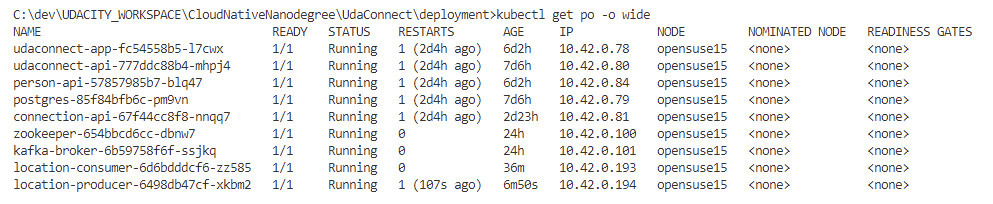
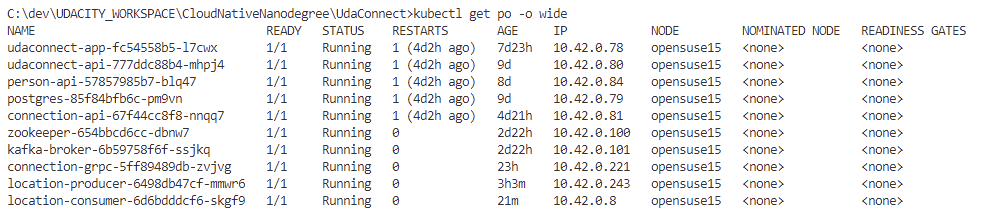
Update docs

diff --git a/README.md b/README.md
@@ -97,23 +97,6 @@ These pages should also load on your web browser:
 * `http://localhost:30001/api/` - Base path for API
 * `http://localhost:30000/` - Frontend ReactJS Application
 
-#### Deployment Note
-You may notice the odd port numbers being served to `localhost`. [By default, Kubernetes services are only exposed to one another in an internal network](https://kubernetes.io/docs/concepts/services-networking/service/). This means that `udaconnect-app` and `udaconnect-api` can talk to one another. For us to connect to the cluster as an "outsider", we need to a way to expose these services to `localhost`.
-
-Connections to the Kubernetes services have been set up through a [NodePort](https://kubernetes.io/docs/concepts/services-networking/service/#nodeport). (While we would use a technology like an [Ingress Controller](https://kubernetes.io/docs/concepts/services-networking/ingress-controllers/) to expose our Kubernetes services in deployment, a NodePort will suffice for development.)
-
-## Development
-### New Services
-New services can be created inside of the `modules/` subfolder. You can choose to write something new with Flask, copy and rework the `modules/api` service into something new, or just create a very simple Python application.
-
-As a reminder, each module should have:
-1. `Dockerfile`
-2. Its own corresponding DockerHub repository
-3. `requirements.txt` for `pip` packages
-4. `__init__.py`
-
-### Docker Images
-`udaconnect-app` and `udaconnect-api` use docker images from `udacity/nd064-udaconnect-app` and `udacity/nd064-udaconnect-api`. To make changes to the application, build your own Docker image and push it to your own DockerHub repository. Replace the existing container registry path with your own.
 
 ## Configs and Secrets
 In `deployment/db-secret.yaml`, the secret variable is `d293aW1zb3NlY3VyZQ==`. The value is simply encoded and not encrypted -- this is ***not*** secure! Anyone can decode it to see what it is.
@@ -141,18 +124,7 @@ To manually connect to the database, you will need software compatible with Post
 * CLI users will find [psql](http://postgresguide.com/utilities/psql.html) to be the industry standard.
 * GUI users will find [pgAdmin](https://www.pgadmin.org/) to be a popular open-source solution.
 
-## Architecture Diagrams
-Your architecture diagram should focus on the services and how they talk to one another. For our project, we want the diagram in a `.png` format. Some popular free software and tools to create architecture diagrams:
-1. [Lucidchart](https://www.lucidchart.com/pages/)
-2. [Google Docs](docs.google.com) Drawings (In a Google Doc, _Insert_ - _Drawing_ - _+ New_)
-3. [Diagrams.net](https://app.diagrams.net/)
-
-## Tips
-* We can access a running Docker container using `kubectl exec -it <pod_id> sh`. From there, we can `curl` an endpoint to debug network issues.
-* The starter project uses Python Flask. Flask doesn't work well with `asyncio` out-of-the-box. Consider using `multiprocessing` to create threads for asynchronous behavior in a standard Flask application.
-
-
-## UdaConnect Refactored in Microservices
+# UdaConnect Refactored in Microservices
 
 These steps will help you run UdaConnect, a microservice-based version of the UdaConnect application, which allows users to connect with each other and share their locations.
 
@@ -207,21 +179,50 @@ Check the status of the services by running the following command:
 
 `kubectl get svc` 
 
-### Step 8: Access the UdaConnect application
+### Step 8: Test the REST implementation of the person endpoint
 
-Access the UdaConnect application from your host machine by visiting the following URLs:
+The person endpoint has been exposed through a NodePort and can be accessed on your local machine at `http://localhost:30010/api/v2/persons`. The frontend has been configured to use the new person endpoint as well, and you can access the UdaConnect app at `http://localhost:30000/`.
 
--   Person API: [http://localhost:30010/api/v2/persons](http://localhost:30010/api/v2/persons)
--   Location API: [http://localhost:30001/api/locations/](http://localhost:30001/api/locations/)
--   UdaConnect Web UI: [http://localhost:30010/](http://localhost:30010/)
-- UdaConnect APP: [http://localhost:30000/](http://localhost:30000/)
 
-### Step 9: View the logs
+### Step 9: Test the Connection-gRPC Implementation
 
-To view the logs for the location producer, location receiver, and Postgres, run the following commands:
+   The Connection gRPC endpoint is exposed through a NodePort service. To test the connection,  a client has   been provided that can be run from the local machine.
+   
+1.  Determine the ID of the connection-grpc pod by running the following command:
+    
+    `kubectl get pods` 
+    
+2.  Check the logs of the connection-grpc pod to ensure that the server is up and running by running the following command:
+    
+    `kubectl logs -f <connection-grpc-id>` 
+    
+3.  Once you have confirmed that the connection-grpc server is up and running, open a new terminal window and navigate to the root directory of the connection-grpc module.
+    
+4.  Run the gRPC client provided in the connection-grpc modulr by running the following command:
+    
+    `python client.py` 
+    
+5.  The client will connect to the gRPC server and display the data retrieved from the database, including the person and location data.
 
--   Location Producer logs: `kubectl logs location-producer-<pod-id>`
--   Location Receiver logs: `kubectl logs location-consumer-<pod-id>`
--   Postgres logs: `kubectl logs postgres-<pod-id>`
 
-That's it! You should now be able to run and test the UdaConnect application.
+### Step 10: Test the Kafka implementation of the location endpoint
+
+The `location-producer` produces location data every 20 seconds (simulating how a mobile app might send location data). The `location-producer` sends location data to the Kafka broker, and the `location-consumer` gets the data from the broker and inserts it into the database. To test the implementation, ensure that all pods are up and running (`kubectl get pods`), and then follow the steps below:
+
+1.  Check the logs of the `location-producer`, `location-consumer`, and `postgres` pods using the following commands:
+    
+    `kubectl logs -f <location-producer-id>
+    kubectl logs -f <location-consumer-id>
+    kubectl logs -f <postgres-id>` 
+    
+    You should see messages sent from the producer, the consumer receiving them, and the data being added successfully to the database. There should be no errors in the logs.
+    
+2.  To view the data in the database, you can log in to the `postgres` pod using the following command:
+   
+    `kubectl exec -it <postgres-id> -- psql -U <db-username> <db-name>`
+	Once you're logged in, you can check the data in the database by running the following command:
+`	SELECT * FROM <table-name> ORDER BY id DESC LIMIT 10;` 
+
+	This command will display the last 10 records that were inserted into the database. You can 		modify the `LIMIT` parameter to see more or fewer records.
+
+That's it! If you follow these steps, you should be able to verify that the Kafka implementation of the location endpoint is working correctly.
